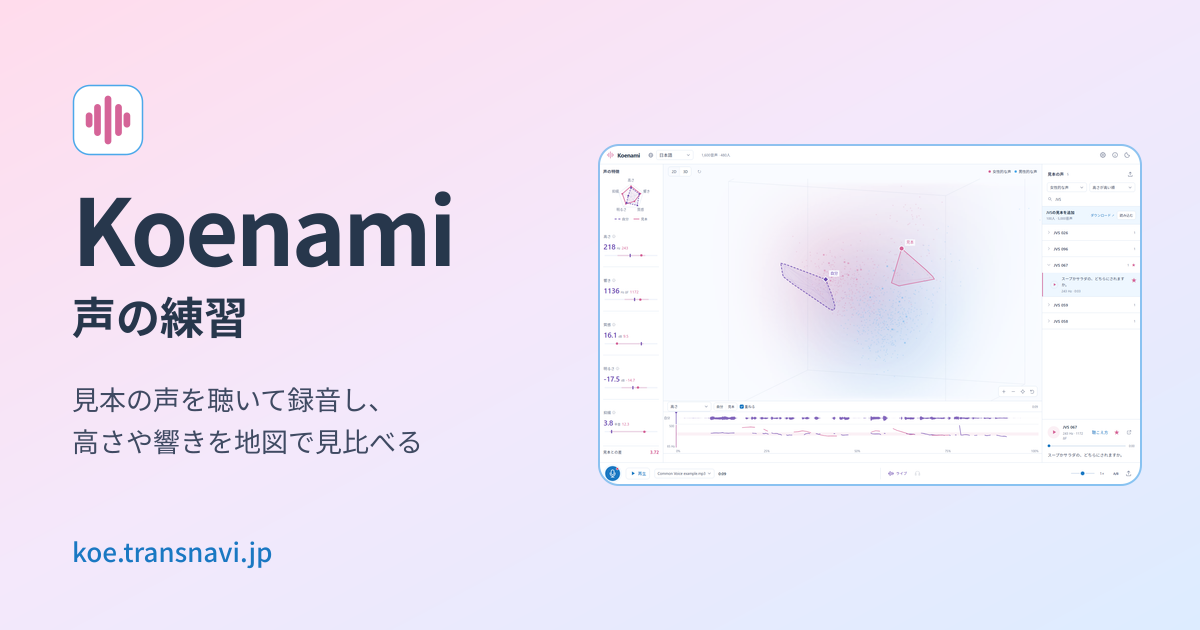
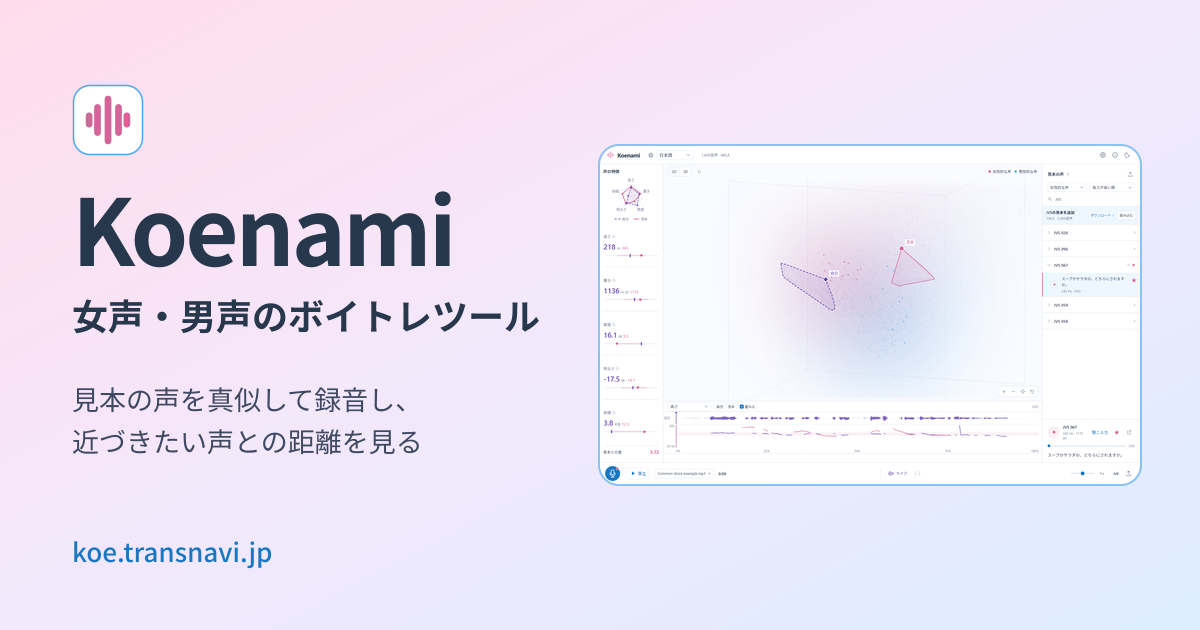
docs: describe Koenami as a voice training tool for feminine and masculine voices (#11)

Changed region(s): [[0.0617, 0.6032, 0.3392, 0.7238], [0.0617, 0.4524, 0.4625, 0.5429]]

diff --git a/web/index.html b/web/index.html
@@ -1,4 +1,4 @@
-<!doctype html><html lang="ja"><head><meta charset="utf-8"><meta name="viewport" content="width=device-width,initial-scale=1"><title>Koenami · 声の練習</title><meta name="description" content="見本の声を聴いて録音し、高さ・響き・質感・明るさ・抑揚の5つの指標で自分の声と見比べる声の練習サイト。日本語・中国語・英語・韓国語の見本を収録。女性的な声、男性的な声、中性的な声のどれを目指す人にも使えます。"><meta name="theme-color" content="#f9fbff" media="(prefers-color-scheme: light)"><meta name="theme-color" content="#171826" media="(prefers-color-scheme: dark)"><link rel="canonical" href="https://koe.transnavi.jp/"><meta property="og:site_name" content="Koenami"><meta property="og:title" content="Koenami · 声の練習"><meta property="og:description" content="見本の声を聴いて録音し、高さ・響き・質感・明るさ・抑揚の5つの指標で自分の声と見比べる声の練習サイト。日本語・中国語・英語・韓国語の見本を収録。女性的な声、男性的な声、中性的な声のどれを目指す人にも使えます。"><meta property="og:type" content="website"><meta property="og:locale" content="ja_JP"><meta property="og:url" content="https://koe.transnavi.jp/"><meta property="og:image" content="https://koe.transnavi.jp/og-image.png"><meta property="og:image:width" content="1200"><meta property="og:image:height" content="630"><meta property="og:image:alt" content="Koenami · 声の練習"><meta name="twitter:card" content="summary_large_image"><meta name="twitter:title" content="Koenami · 声の練習"><meta name="twitter:description" content="見本の声を聴いて録音し、高さ・響き・質感・明るさ・抑揚の5つの指標で自分の声と見比べる声の練習サイト。日本語・中国語・英語・韓国語の見本を収録。女性的な声、男性的な声、中性的な声のどれを目指す人にも使えます。"><meta name="twitter:image" content="https://koe.transnavi.jp/og-image.png"><script type="application/ld+json">{"@context":"https://schema.org","@graph":[{"@type":"WebSite","@id":"https://koe.transnavi.jp/#website","url":"https://koe.transnavi.jp/","name":"Koenami","inLanguage":"ja","publisher":{"@id":"https://transnavi.jp/#organization"}},{"@type":"Organization","@id":"https://transnavi.jp/#organization","name":"とらんすナビ","url":"https://transnavi.jp/","logo":"https://transnavi.jp/favicon.svg"},{"@type":"WebApplication","@id":"https://koe.transnavi.jp/#app","name":"Koenami","url":"https://koe.transnavi.jp/","description":"見本の声を聴いて録音し、高さ・響き・質感・明るさ・抑揚の5つの指標で自分の声と見比べる声の練習サイト。日本語・中国語・英語・韓国語の見本を収録。女性的な声、男性的な声、中性的な声のどれを目指す人にも使えます。","inLanguage":"ja","image":"https://koe.transnavi.jp/og-image.png","applicationCategory":"EducationalApplication","operatingSystem":"Web","browserRequirements":"マイクを使えるブラウザー","isAccessibleForFree":true,"offers":{"@type":"Offer","price":"0","priceCurrency":"JPY"},"license":"https://github.com/transnavi/koenami/blob/main/LICENSE","softwareHelp":{"@type":"CreativeWork","url":"https://koe.transnavi.jp/method.html"},"sameAs":"https://github.com/transnavi/koenami","publisher":{"@id":"https://transnavi.jp/#organization"},"isPartOf":{"@id":"https://koe.transnavi.jp/#website"}}]}</script><link rel="sitemap" href="/sitemap.xml"><link rel="icon" href="/favicon.svg" type="image/svg+xml"><link rel="icon" href="/favicon.ico" sizes="16x16 32x32 48x48"><link rel="icon" href="/favicon-96x96.png" type="image/png" sizes="96x96"><link rel="apple-touch-icon" href="/apple-touch-icon.png" sizes="180x180"><link rel="manifest" href="/site.webmanifest"><script type="module" src="/theme.js"></script><script type="module" src="/app.js"></script><script type="module" src="/layout.js"></script><link rel="stylesheet" href="/style.css"></head><body><svg class="sprite" aria-hidden="true"><defs><symbol id="i-book" viewBox="0 0 24 24"><path d="M3 4h7l2 2 2-2h7v15h-7l-2 2-2-2H3ZM12 6v15"/></symbol><symbol id="i-mic" viewBox="0 0 24 24"><rect x="8" y="2" width="8" height="13" rx="4"/><path d="M5 10v2a7 7 0 0 0 14 0v-2M12 19v3M8 22h8"/></symbol><symbol id="i-stop" viewBox="0 0 24 24"><rect x="6" y="6" width="12" height="12" rx="2" fill="currentColor" stroke="none"/></symbol><symbol id="i-play" viewBox="0 0 24 24"><path d="m9 5 11 7-11 7Z" fill="currentColor" stroke="none"/></symbol><symbol id="i-pause" viewBox="0 0 24 24"><path d="M8 5v14M16 5v14" stroke-width="4"/></symbol><symbol id="i-upload" viewBox="0 0 24 24"><path d="M12 16V3m-5 5 5-5 5 5M4 16v4a1 1 0 0 0 1 1h14a1 1 0 0 0 1-1v-4"/></symbol><symbol id="i-download" viewBox="0 0 24 24"><path d="M12 3v13m-5-5 5 5 5-5M4 16v4a1 1 0 0 0 1 1h14a1 1 0 0 0 1-1v-4"/></symbol><symbol id="i-sun" viewBox="0 0 24 24"><circle cx="12" cy="12" r="4"/><path d="M12 2v2m0 16v2M2 12h2m16 0h2M5 5l1.4 1.4m11.2 11.2L19 19M5 19l1.4-1.4M17.6 6.4 19 5"/></symbol><symbol id="i-moon" viewBox="0 0 24 24"><path d="M20.7 13.2A9 9 0 0 1 10.8 3.3 9 9 0 1 0 20.7 13.2Z"/></symbol><symbol id="i-globe" viewBox="0 0 24 24"><circle cx="12" cy="12" r="9"/><ellipse cx="12" cy="12" rx="4" ry="9"/><path d="M3 12h18"/></symbol><symbol id="i-info" viewBox="0 0 24 24"><circle cx="12" cy="12" r="9"/><path d="M12 11v6m0-10v.1"/></symbol><symbol id="i-search" viewBox="0 0 24 24"><circle cx="10" cy="10" r="6"/><path d="m15 15 6 6"/></symbol><symbol id="i-close" viewBox="0 0 24 24"><path d="m6 6 12 12M6 18 18 6"/></symbol><symbol id="i-gear" viewBox="0 0 24 24"><path d="M9.66 5.01Q9.96 4.89 10.03 4.57L10.43 2.83Q10.50 2.52 10.82 2.52L13.18 2.52Q13.50 2.52 13.57 2.83L13.97 4.57Q14.04 4.89 14.34 5.01L15.29 5.41Q15.59 5.53 15.86 5.36L17.37 4.40Q17.64 4.23 17.87 4.46L19.54 6.13Q19.77 6.36 19.60 6.63L18.64 8.14Q18.47 8.41 18.59 8.71L18.99 9.66Q19.11 9.96 19.43 10.03L21.17 10.43Q21.48 10.50 21.48 10.82L21.48 13.18Q21.48 13.50 21.17 13.57L19.43 13.97Q19.11 14.04 18.99 14.34L18.59 15.29Q18.47 15.59 18.64 15.86L19.60 17.37Q19.77 17.64 19.54 17.87L17.87 19.54Q17.64 19.77 17.37 19.60L15.86 18.64Q15.59 18.47 15.29 18.59L14.34 18.99Q14.04 19.11 13.97 19.43L13.57 21.17Q13.50 21.48 13.18 21.48L10.82 21.48Q10.50 21.48 10.43 21.17L10.03 19.43Q9.96 19.11 9.66 18.99L8.71 18.59Q8.41 18.47 8.14 18.64L6.63 19.60Q6.36 19.77 6.13 19.54L4.46 17.87Q4.23 17.64 4.40 17.37L5.36 15.86Q5.53 15.59 5.41 15.29L5.01 14.34Q4.89 14.04 4.57 13.97L2.83 13.57Q2.52 13.50 2.52 13.18L2.52 10.82Q2.52 10.50 2.83 10.43L4.57 10.03Q4.89 9.96 5.01 9.66L5.41 8.71Q5.53 8.41 5.36 8.14L4.40 6.63Q4.23 6.36 4.46 6.13L6.13 4.46Q6.36 4.23 6.63 4.40L8.14 5.36Q8.41 5.53 8.71 5.41Z"/><circle cx="12" cy="12" r="3"/></symbol><symbol id="i-history" viewBox="0 0 24 24"><path d="M4 5v5h5M4 10a8 8 0 1 1 1 8M12 7v5l3 2"/></symbol><symbol id="i-reset" viewBox="0 0 24 24"><path d="M4 4v6h6M4 10a8 8 0 1 1 1 8"/></symbol><symbol id="i-focus" viewBox="0 0 24 24"><circle cx="12" cy="12" r="6"/><path d="M12 2v4m0 12v4M2 12h4m12 0h4"/></symbol><symbol id="i-plus" viewBox="0 0 24 24"><path d="M12 5v14M5 12h14"/></symbol><symbol id="i-minus" viewBox="0 0 24 24"><path d="M5 12h14"/></symbol><symbol id="i-link" viewBox="0 0 24 24"><path d="M14 3h7v7M10 14 21 3M10 5H5a2 2 0 0 0-2 2v12a2 2 0 0 0 2 2h12a2 2 0 0 0 2-2v-5"/></symbol><symbol id="i-wave" viewBox="0 0 24 24"><path d="M3 10v4m4-8v12m5-16v20m5-16v12m4-8v4"/></symbol><symbol id="i-chevron" viewBox="0 0 24 24"><path d="m9 5 7 7-7 7"/></symbol><symbol id="i-check" viewBox="0 0 24 24"><path d="m5 12 4 4L19 6"/></symbol></defs></svg>
+<!doctype html><html lang="ja"><head><meta charset="utf-8"><meta name="viewport" content="width=device-width,initial-scale=1"><title>Koenami · 女声・男声のボイトレツール</title><meta name="description" content="両声類を目指す方、トランスジェンダーの方、女声・男声を出してみたい方向けの無料ボイトレツール。見本の声を真似して録音すると、自分の声が空間上に映り、近づきたい声との距離が見えます。リアルタイム測定にも対応。"><meta name="theme-color" content="#f9fbff" media="(prefers-color-scheme: light)"><meta name="theme-color" content="#171826" media="(prefers-color-scheme: dark)"><link rel="canonical" href="https://koe.transnavi.jp/"><meta property="og:site_name" content="Koenami"><meta property="og:title" content="Koenami · 女声・男声のボイトレツール"><meta property="og:description" content="両声類を目指す方、トランスジェンダーの方、女声・男声を出してみたい方向けの無料ボイトレツール。見本の声を真似して録音すると、自分の声が空間上に映り、近づきたい声との距離が見えます。リアルタイム測定にも対応。"><meta property="og:type" content="website"><meta property="og:locale" content="ja_JP"><meta property="og:url" content="https://koe.transnavi.jp/"><meta property="og:image" content="https://koe.transnavi.jp/og-image.png"><meta property="og:image:width" content="1200"><meta property="og:image:height" content="630"><meta property="og:image:alt" content="Koenami · 女声・男声のボイトレツール"><meta name="twitter:card" content="summary_large_image"><meta name="twitter:title" content="Koenami · 女声・男声のボイトレツール"><meta name="twitter:description" content="両声類を目指す方、トランスジェンダーの方、女声・男声を出してみたい方向けの無料ボイトレツール。見本の声を真似して録音すると、自分の声が空間上に映り、近づきたい声との距離が見えます。リアルタイム測定にも対応。"><meta name="twitter:image" content="https://koe.transnavi.jp/og-image.png"><script type="application/ld+json">{"@context":"https://schema.org","@graph":[{"@type":"WebSite","@id":"https://koe.transnavi.jp/#website","url":"https://koe.transnavi.jp/","name":"Koenami","inLanguage":"ja","publisher":{"@id":"https://transnavi.jp/#organization"}},{"@type":"Organization","@id":"https://transnavi.jp/#organization","name":"とらんすナビ","url":"https://transnavi.jp/","logo":"https://transnavi.jp/favicon.svg"},{"@type":"WebApplication","@id":"https://koe.transnavi.jp/#app","name":"Koenami","url":"https://koe.transnavi.jp/","description":"両声類を目指す方、トランスジェンダーの方、女声・男声を出してみたい方向けの無料ボイトレツール。見本の声を真似して録音すると、自分の声が空間上に映り、近づきたい声との距離が見えます。リアルタイム測定にも対応。","inLanguage":"ja","image":"https://koe.transnavi.jp/og-image.png","applicationCategory":"EducationalApplication","operatingSystem":"Web","browserRequirements":"マイクを使えるブラウザー","isAccessibleForFree":true,"offers":{"@type":"Offer","price":"0","priceCurrency":"JPY"},"license":"https://github.com/transnavi/koenami/blob/main/LICENSE","softwareHelp":{"@type":"CreativeWork","url":"https://koe.transnavi.jp/method.html"},"sameAs":"https://github.com/transnavi/koenami","publisher":{"@id":"https://transnavi.jp/#organization"},"isPartOf":{"@id":"https://koe.transnavi.jp/#website"}}]}</script><link rel="sitemap" href="/sitemap.xml"><link rel="icon" href="/favicon.svg" type="image/svg+xml"><link rel="icon" href="/favicon.ico" sizes="16x16 32x32 48x48"><link rel="icon" href="/favicon-96x96.png" type="image/png" sizes="96x96"><link rel="apple-touch-icon" href="/apple-touch-icon.png" sizes="180x180"><link rel="manifest" href="/site.webmanifest"><script type="module" src="/theme.js"></script><script type="module" src="/app.js"></script><script type="module" src="/layout.js"></script><link rel="stylesheet" href="/style.css"></head><body><svg class="sprite" aria-hidden="true"><defs><symbol id="i-book" viewBox="0 0 24 24"><path d="M3 4h7l2 2 2-2h7v15h-7l-2 2-2-2H3ZM12 6v15"/></symbol><symbol id="i-mic" viewBox="0 0 24 24"><rect x="8" y="2" width="8" height="13" rx="4"/><path d="M5 10v2a7 7 0 0 0 14 0v-2M12 19v3M8 22h8"/></symbol><symbol id="i-stop" viewBox="0 0 24 24"><rect x="6" y="6" width="12" height="12" rx="2" fill="currentColor" stroke="none"/></symbol><symbol id="i-play" viewBox="0 0 24 24"><path d="m9 5 11 7-11 7Z" fill="currentColor" stroke="none"/></symbol><symbol id="i-pause" viewBox="0 0 24 24"><path d="M8 5v14M16 5v14" stroke-width="4"/></symbol><symbol id="i-upload" viewBox="0 0 24 24"><path d="M12 16V3m-5 5 5-5 5 5M4 16v4a1 1 0 0 0 1 1h14a1 1 0 0 0 1-1v-4"/></symbol><symbol id="i-download" viewBox="0 0 24 24"><path d="M12 3v13m-5-5 5 5 5-5M4 16v4a1 1 0 0 0 1 1h14a1 1 0 0 0 1-1v-4"/></symbol><symbol id="i-sun" viewBox="0 0 24 24"><circle cx="12" cy="12" r="4"/><path d="M12 2v2m0 16v2M2 12h2m16 0h2M5 5l1.4 1.4m11.2 11.2L19 19M5 19l1.4-1.4M17.6 6.4 19 5"/></symbol><symbol id="i-moon" viewBox="0 0 24 24"><path d="M20.7 13.2A9 9 0 0 1 10.8 3.3 9 9 0 1 0 20.7 13.2Z"/></symbol><symbol id="i-globe" viewBox="0 0 24 24"><circle cx="12" cy="12" r="9"/><ellipse cx="12" cy="12" rx="4" ry="9"/><path d="M3 12h18"/></symbol><symbol id="i-info" viewBox="0 0 24 24"><circle cx="12" cy="12" r="9"/><path d="M12 11v6m0-10v.1"/></symbol><symbol id="i-search" viewBox="0 0 24 24"><circle cx="10" cy="10" r="6"/><path d="m15 15 6 6"/></symbol><symbol id="i-close" viewBox="0 0 24 24"><path d="m6 6 12 12M6 18 18 6"/></symbol><symbol id="i-gear" viewBox="0 0 24 24"><path d="M9.66 5.01Q9.96 4.89 10.03 4.57L10.43 2.83Q10.50 2.52 10.82 2.52L13.18 2.52Q13.50 2.52 13.57 2.83L13.97 4.57Q14.04 4.89 14.34 5.01L15.29 5.41Q15.59 5.53 15.86 5.36L17.37 4.40Q17.64 4.23 17.87 4.46L19.54 6.13Q19.77 6.36 19.60 6.63L18.64 8.14Q18.47 8.41 18.59 8.71L18.99 9.66Q19.11 9.96 19.43 10.03L21.17 10.43Q21.48 10.50 21.48 10.82L21.48 13.18Q21.48 13.50 21.17 13.57L19.43 13.97Q19.11 14.04 18.99 14.34L18.59 15.29Q18.47 15.59 18.64 15.86L19.60 17.37Q19.77 17.64 19.54 17.87L17.87 19.54Q17.64 19.77 17.37 19.60L15.86 18.64Q15.59 18.47 15.29 18.59L14.34 18.99Q14.04 19.11 13.97 19.43L13.57 21.17Q13.50 21.48 13.18 21.48L10.82 21.48Q10.50 21.48 10.43 21.17L10.03 19.43Q9.96 19.11 9.66 18.99L8.71 18.59Q8.41 18.47 8.14 18.64L6.63 19.60Q6.36 19.77 6.13 19.54L4.46 17.87Q4.23 17.64 4.40 17.37L5.36 15.86Q5.53 15.59 5.41 15.29L5.01 14.34Q4.89 14.04 4.57 13.97L2.83 13.57Q2.52 13.50 2.52 13.18L2.52 10.82Q2.52 10.50 2.83 10.43L4.57 10.03Q4.89 9.96 5.01 9.66L5.41 8.71Q5.53 8.41 5.36 8.14L4.40 6.63Q4.23 6.36 4.46 6.13L6.13 4.46Q6.36 4.23 6.63 4.40L8.14 5.36Q8.41 5.53 8.71 5.41Z"/><circle cx="12" cy="12" r="3"/></symbol><symbol id="i-history" viewBox="0 0 24 24"><path d="M4 5v5h5M4 10a8 8 0 1 1 1 8M12 7v5l3 2"/></symbol><symbol id="i-reset" viewBox="0 0 24 24"><path d="M4 4v6h6M4 10a8 8 0 1 1 1 8"/></symbol><symbol id="i-focus" viewBox="0 0 24 24"><circle cx="12" cy="12" r="6"/><path d="M12 2v4m0 12v4M2 12h4m12 0h4"/></symbol><symbol id="i-plus" viewBox="0 0 24 24"><path d="M12 5v14M5 12h14"/></symbol><symbol id="i-minus" viewBox="0 0 24 24"><path d="M5 12h14"/></symbol><symbol id="i-link" viewBox="0 0 24 24"><path d="M14 3h7v7M10 14 21 3M10 5H5a2 2 0 0 0-2 2v12a2 2 0 0 0 2 2h12a2 2 0 0 0 2-2v-5"/></symbol><symbol id="i-wave" viewBox="0 0 24 24"><path d="M3 10v4m4-8v12m5-16v20m5-16v12m4-8v4"/></symbol><symbol id="i-chevron" viewBox="0 0 24 24"><path d="m9 5 7 7-7 7"/></symbol><symbol id="i-check" viewBox="0 0 24 24"><path d="m5 12 4 4L19 6"/></symbol></defs></svg>
 <div class="app"><header class="toolbar"><a class="brand" href="/ja/"><svg aria-hidden="true"><use href="#i-wave"></use></svg><h1>Koenami</h1></a><label class="language-control" title="見本の言語"><svg aria-hidden="true"><use href="#i-globe"></use></svg><koe-select id="language" aria-label="見本の言語"><option value="ja">日本語</option></koe-select></label><span id="corpus-count" class="toolbar-count"></span><div class="toolbar-end"><button id="settings-button" class="icon-button" title="設定" aria-label="設定" ><svg aria-hidden="true"><use href="#i-gear"></use></svg></button><button id="info-button" class="icon-button" title="出典と関連ツール" aria-label="出典と関連ツール" ><svg aria-hidden="true"><use href="#i-info"></use></svg></button><button id="theme-button" class="icon-button" title="明暗を切り替え" aria-label="明暗を切り替え" ><svg aria-hidden="true"><use href="#i-moon"></use></svg></button></div></header>
 <main class="studio"><aside class="profile-panel" aria-label="5つの声の指標"><div class="profile-heading">声の特徴</div><canvas id="profile-canvas" aria-label="自分と見本の5指標を重ねた図"></canvas><div class="profile-legend"><span class="self-line">自分</span><span class="ref-line">見本</span></div><div id="indicators" class="indicators" role="group" aria-label="声の指標"></div><button id="report-button" class="fit-readout" title="比較レポートを開く"><span>見本との差</span><strong id="fit-value">—</strong></button></aside><section class="graph-area" aria-label="声の比較"><div class="graph-toolbar"><div class="segment"><button data-dimension="2" aria-pressed="false">2D</button><button data-dimension="3" aria-pressed="true">3D</button></div><div class="segment" id="projection-controls" hidden><button data-projection="variance" aria-pressed="true" title="全体のばらつきが大きい方向から表示します（主成分分析）。女性・男性のラベルは使いません。">主成分</button><button data-projection="contrast" aria-pressed="false" title="女性的な声と男性的な声が最も離れる方向を横軸にします。ラベル付きの見本から計算します。">男女差</button></div><button id="auto-rotate" class="rotate-button" aria-pressed="true" title="3Dの自動回転を切り替え">↻ <span>自動回転</span></button><span id="space-label" title="5つの指標から計算した主成分空間">声の分布</span><div class="legend" id="group-legend"><label><input type="checkbox" id="show-female" checked><i class="female"></i><span>女性的な声</span></label><label><input type="checkbox" id="show-male" checked><i class="male"></i><span>男性的な声</span></label></div><span class="you-legend"><i></i>自分</span></div>
 <div class="graph"><canvas id="voice-map" tabindex="0" aria-label="声の分布。スクロールで拡大縮小、ドラッグで回転、Shift＋ドラッグで移動。形は1.2秒の移動中央値のうち中心に近い80%。"></canvas><div id="map-tooltip" class="tooltip" hidden></div><div class="graph-tools"><button id="zoom-in" class="icon-button" title="拡大" aria-label="拡大" ><svg aria-hidden="true"><use href="#i-plus"></use></svg></button><button id="zoom-out" class="icon-button" title="縮小" aria-label="縮小" ><svg aria-hidden="true"><use href="#i-minus"></use></svg></button><button id="find-me" class="icon-button" title="声の広がりに表示を合わせる" aria-label="声の広がりに表示を合わせる" ><svg aria-hidden="true"><use href="#i-focus"></use></svg></button><button id="reset-view" class="icon-button" title="表示をリセット" aria-label="表示をリセット" ><svg aria-hidden="true"><use href="#i-reset"></use></svg></button></div><span id="quality-state" class="quality-state" hidden></span></div>

diff --git a/web/method.html b/web/method.html
@@ -1,4 +1,4 @@
-<!doctype html><html lang="ja"><head><meta charset="utf-8"><meta name="viewport" content="width=device-width,initial-scale=1"><title>Koenami · 測定方法と出典</title><meta name="description" content="Koenamiの声の分布図の見方、高さ・響き・質感・明るさ・抑揚の測定方法、聴取レビュー、見本の音声の出典と利用条件。"><meta name="theme-color" content="#f9fbff" media="(prefers-color-scheme: light)"><meta name="theme-color" content="#171826" media="(prefers-color-scheme: dark)"><link rel="canonical" href="https://koe.transnavi.jp/method.html"><meta property="og:site_name" content="Koenami"><meta property="og:title" content="Koenami · 測定方法と出典"><meta property="og:description" content="Koenamiの声の分布図の見方、高さ・響き・質感・明るさ・抑揚の測定方法、聴取レビュー、見本の音声の出典と利用条件。"><meta property="og:type" content="article"><meta property="og:locale" content="ja_JP"><meta property="og:url" content="https://koe.transnavi.jp/method.html"><meta property="og:image" content="https://koe.transnavi.jp/og-image.png"><meta property="og:image:width" content="1200"><meta property="og:image:height" content="630"><meta property="og:image:alt" content="Koenami · 声の練習"><meta name="twitter:card" content="summary_large_image"><meta name="twitter:title" content="Koenami · 測定方法と出典"><meta name="twitter:description" content="Koenamiの声の分布図の見方、高さ・響き・質感・明るさ・抑揚の測定方法、聴取レビュー、見本の音声の出典と利用条件。"><meta name="twitter:image" content="https://koe.transnavi.jp/og-image.png"><script type="application/ld+json">{"@context":"https://schema.org","@graph":[{"@type":"WebSite","@id":"https://koe.transnavi.jp/#website","url":"https://koe.transnavi.jp/","name":"Koenami","inLanguage":"ja","publisher":{"@id":"https://transnavi.jp/#organization"}},{"@type":"Organization","@id":"https://transnavi.jp/#organization","name":"とらんすナビ","url":"https://transnavi.jp/","logo":"https://transnavi.jp/favicon.svg"},{"@type":"TechArticle","@id":"https://koe.transnavi.jp/method.html#article","url":"https://koe.transnavi.jp/method.html","headline":"測定方法と出典","name":"Koenami · 測定方法と出典","description":"Koenamiの声の分布図の見方、高さ・響き・質感・明るさ・抑揚の測定方法、聴取レビュー、見本の音声の出典と利用条件。","inLanguage":"ja","mainEntityOfPage":"https://koe.transnavi.jp/method.html","image":"https://koe.transnavi.jp/og-image.png","author":{"@id":"https://transnavi.jp/#organization"},"publisher":{"@id":"https://transnavi.jp/#organization"},"isPartOf":{"@id":"https://koe.transnavi.jp/#website"}},{"@type":"BreadcrumbList","itemListElement":[{"@type":"ListItem","position":1,"name":"Koenami","item":"https://koe.transnavi.jp/"},{"@type":"ListItem","position":2,"name":"測定方法と出典","item":"https://koe.transnavi.jp/method.html"}]}]}</script><link rel="sitemap" href="/sitemap.xml"><link rel="icon" href="/favicon.svg" type="image/svg+xml"><link rel="icon" href="/favicon.ico" sizes="16x16 32x32 48x48"><link rel="icon" href="/favicon-96x96.png" type="image/png" sizes="96x96"><link rel="apple-touch-icon" href="/apple-touch-icon.png" sizes="180x180"><link rel="manifest" href="/site.webmanifest"><script type="module" src="/theme.js"></script><link rel="stylesheet" href="/style.css"></head><body><header class="method-header"><a class="brand" href="/ja/">← Koenami</a><span>測定方法と出典</span></header><main class="method"><h1>声の分布の見方</h1>
+<!doctype html><html lang="ja"><head><meta charset="utf-8"><meta name="viewport" content="width=device-width,initial-scale=1"><title>Koenami · 測定方法と出典</title><meta name="description" content="Koenamiの声の分布図の見方、高さ・響き・質感・明るさ・抑揚の測定方法、聴取レビュー、見本の音声の出典と利用条件。"><meta name="theme-color" content="#f9fbff" media="(prefers-color-scheme: light)"><meta name="theme-color" content="#171826" media="(prefers-color-scheme: dark)"><link rel="canonical" href="https://koe.transnavi.jp/method.html"><meta property="og:site_name" content="Koenami"><meta property="og:title" content="Koenami · 測定方法と出典"><meta property="og:description" content="Koenamiの声の分布図の見方、高さ・響き・質感・明るさ・抑揚の測定方法、聴取レビュー、見本の音声の出典と利用条件。"><meta property="og:type" content="article"><meta property="og:locale" content="ja_JP"><meta property="og:url" content="https://koe.transnavi.jp/method.html"><meta property="og:image" content="https://koe.transnavi.jp/og-image.png"><meta property="og:image:width" content="1200"><meta property="og:image:height" content="630"><meta property="og:image:alt" content="Koenami · 女声・男声のボイトレツール"><meta name="twitter:card" content="summary_large_image"><meta name="twitter:title" content="Koenami · 測定方法と出典"><meta name="twitter:description" content="Koenamiの声の分布図の見方、高さ・響き・質感・明るさ・抑揚の測定方法、聴取レビュー、見本の音声の出典と利用条件。"><meta name="twitter:image" content="https://koe.transnavi.jp/og-image.png"><script type="application/ld+json">{"@context":"https://schema.org","@graph":[{"@type":"WebSite","@id":"https://koe.transnavi.jp/#website","url":"https://koe.transnavi.jp/","name":"Koenami","inLanguage":"ja","publisher":{"@id":"https://transnavi.jp/#organization"}},{"@type":"Organization","@id":"https://transnavi.jp/#organization","name":"とらんすナビ","url":"https://transnavi.jp/","logo":"https://transnavi.jp/favicon.svg"},{"@type":"TechArticle","@id":"https://koe.transnavi.jp/method.html#article","url":"https://koe.transnavi.jp/method.html","headline":"測定方法と出典","name":"Koenami · 測定方法と出典","description":"Koenamiの声の分布図の見方、高さ・響き・質感・明るさ・抑揚の測定方法、聴取レビュー、見本の音声の出典と利用条件。","inLanguage":"ja","mainEntityOfPage":"https://koe.transnavi.jp/method.html","image":"https://koe.transnavi.jp/og-image.png","author":{"@id":"https://transnavi.jp/#organization"},"publisher":{"@id":"https://transnavi.jp/#organization"},"isPartOf":{"@id":"https://koe.transnavi.jp/#website"}},{"@type":"BreadcrumbList","itemListElement":[{"@type":"ListItem","position":1,"name":"Koenami","item":"https://koe.transnavi.jp/"},{"@type":"ListItem","position":2,"name":"測定方法と出典","item":"https://koe.transnavi.jp/method.html"}]}]}</script><link rel="sitemap" href="/sitemap.xml"><link rel="icon" href="/favicon.svg" type="image/svg+xml"><link rel="icon" href="/favicon.ico" sizes="16x16 32x32 48x48"><link rel="icon" href="/favicon-96x96.png" type="image/png" sizes="96x96"><link rel="apple-touch-icon" href="/apple-touch-icon.png" sizes="180x180"><link rel="manifest" href="/site.webmanifest"><script type="module" src="/theme.js"></script><link rel="stylesheet" href="/style.css"></head><body><header class="method-header"><a class="brand" href="/ja/">← Koenami</a><span>測定方法と出典</span></header><main class="method"><h1>声の分布の見方</h1>
 <p>小さな点は、再生できる見本の音声です。「女性的な声」「男性的な声」の区分は、音声資料のラベルを表示用に読み替えています。背景の雲は、その見本の集まりを表します。自分の声は紫の破線、選んだ見本は、その見本の色の実線です。再生すると大きな点が移動し、直前1.4秒の軌跡が薄れていきます。</p>
 <p>録音全体の広がりは、時間ごとの測定点を囲む形で表します。1.2秒の移動中央値で短い変動をならし、5指標の距離で中心に近い80%の点を選んで凸包を作ります。細かな凹凸や複数の離れたまとまりは省略されます。声の性別を区切る境界ではありません。リアルタイム測定中は直近5秒の点が残り、設定で1〜30秒に変更でき、有声区間を測定できたときに増えていきます。</p>
 <h2>5つの指標を一つの空間に</h2><p>高さ、響き、質感、明るさ、抑揚を言語ごとに標準化し、2D・3Dに投影します。高さは半音単位に変換し、各指標の中央値と四分位範囲を使って尺度をそろえます。2D図には2つの軸の選び方があります。「主成分」は全体のばらつきが大きい方向から軸を取り（PCA）、計算に女性・男性のラベルは使いません。「男女差」は、女性的な声と男性的な声のラベル付きの見本から、両者が最も離れる方向（フィッシャーの線形判別）を横軸に、それと直交する方向を縦軸にします。ラベル付きの見本が少ない言語では選べません。2D図を開いたときの初期値は「男女差」です。3D図と距離の計算は主成分のままです。「自分に近い」の並び順は、5次元の距離を使います。</p><p>表示では次元を減らすため、近く見える音声でも個々の指標に差が残ることがあります。左の図と数値は5指標を同時に表示します。大きい図形や高い値が、そのまま望ましい声を意味するわけではありません。</p>

diff --git a/README.md b/README.md
@@ -1,6 +1,10 @@
 # Koenami
 
-Voice practice with audible references, a live acoustic map, and side-by-side measurements. Japanese comes first, followed by Mandarin, English, and Korean. Feminine, masculine, and androgynous voice goals are welcome.
+A voice training tool for anyone working toward a feminine or masculine voice: people aiming to become 両声類 (able to speak in both a feminine and a masculine voice), transgender people, and anyone who simply wants to try a voice they do not have yet. Japanese comes first, followed by Mandarin, English, and Korean. Free and open source.
+
+Pick a voice you want to get closer to, from the bundled references or your own audio, then record while imitating it. Your voice is projected into the same acoustic space, so you can see how close you are and in which direction the gap lies. Real-time measurement plots the microphone as you speak, so you can adjust while watching the distance shrink.
+
+Planned next: voice-training tutorials, analysis from the angles of phonetics, vocal pedagogy, acoustics and anatomy, and evaluation that tracks how listeners actually hear a voice more closely.
 
 [Public demo](https://koe.transnavi.jp/) · [Source](https://github.com/transnavi/koenami) · [MIT license](LICENSE)
 
